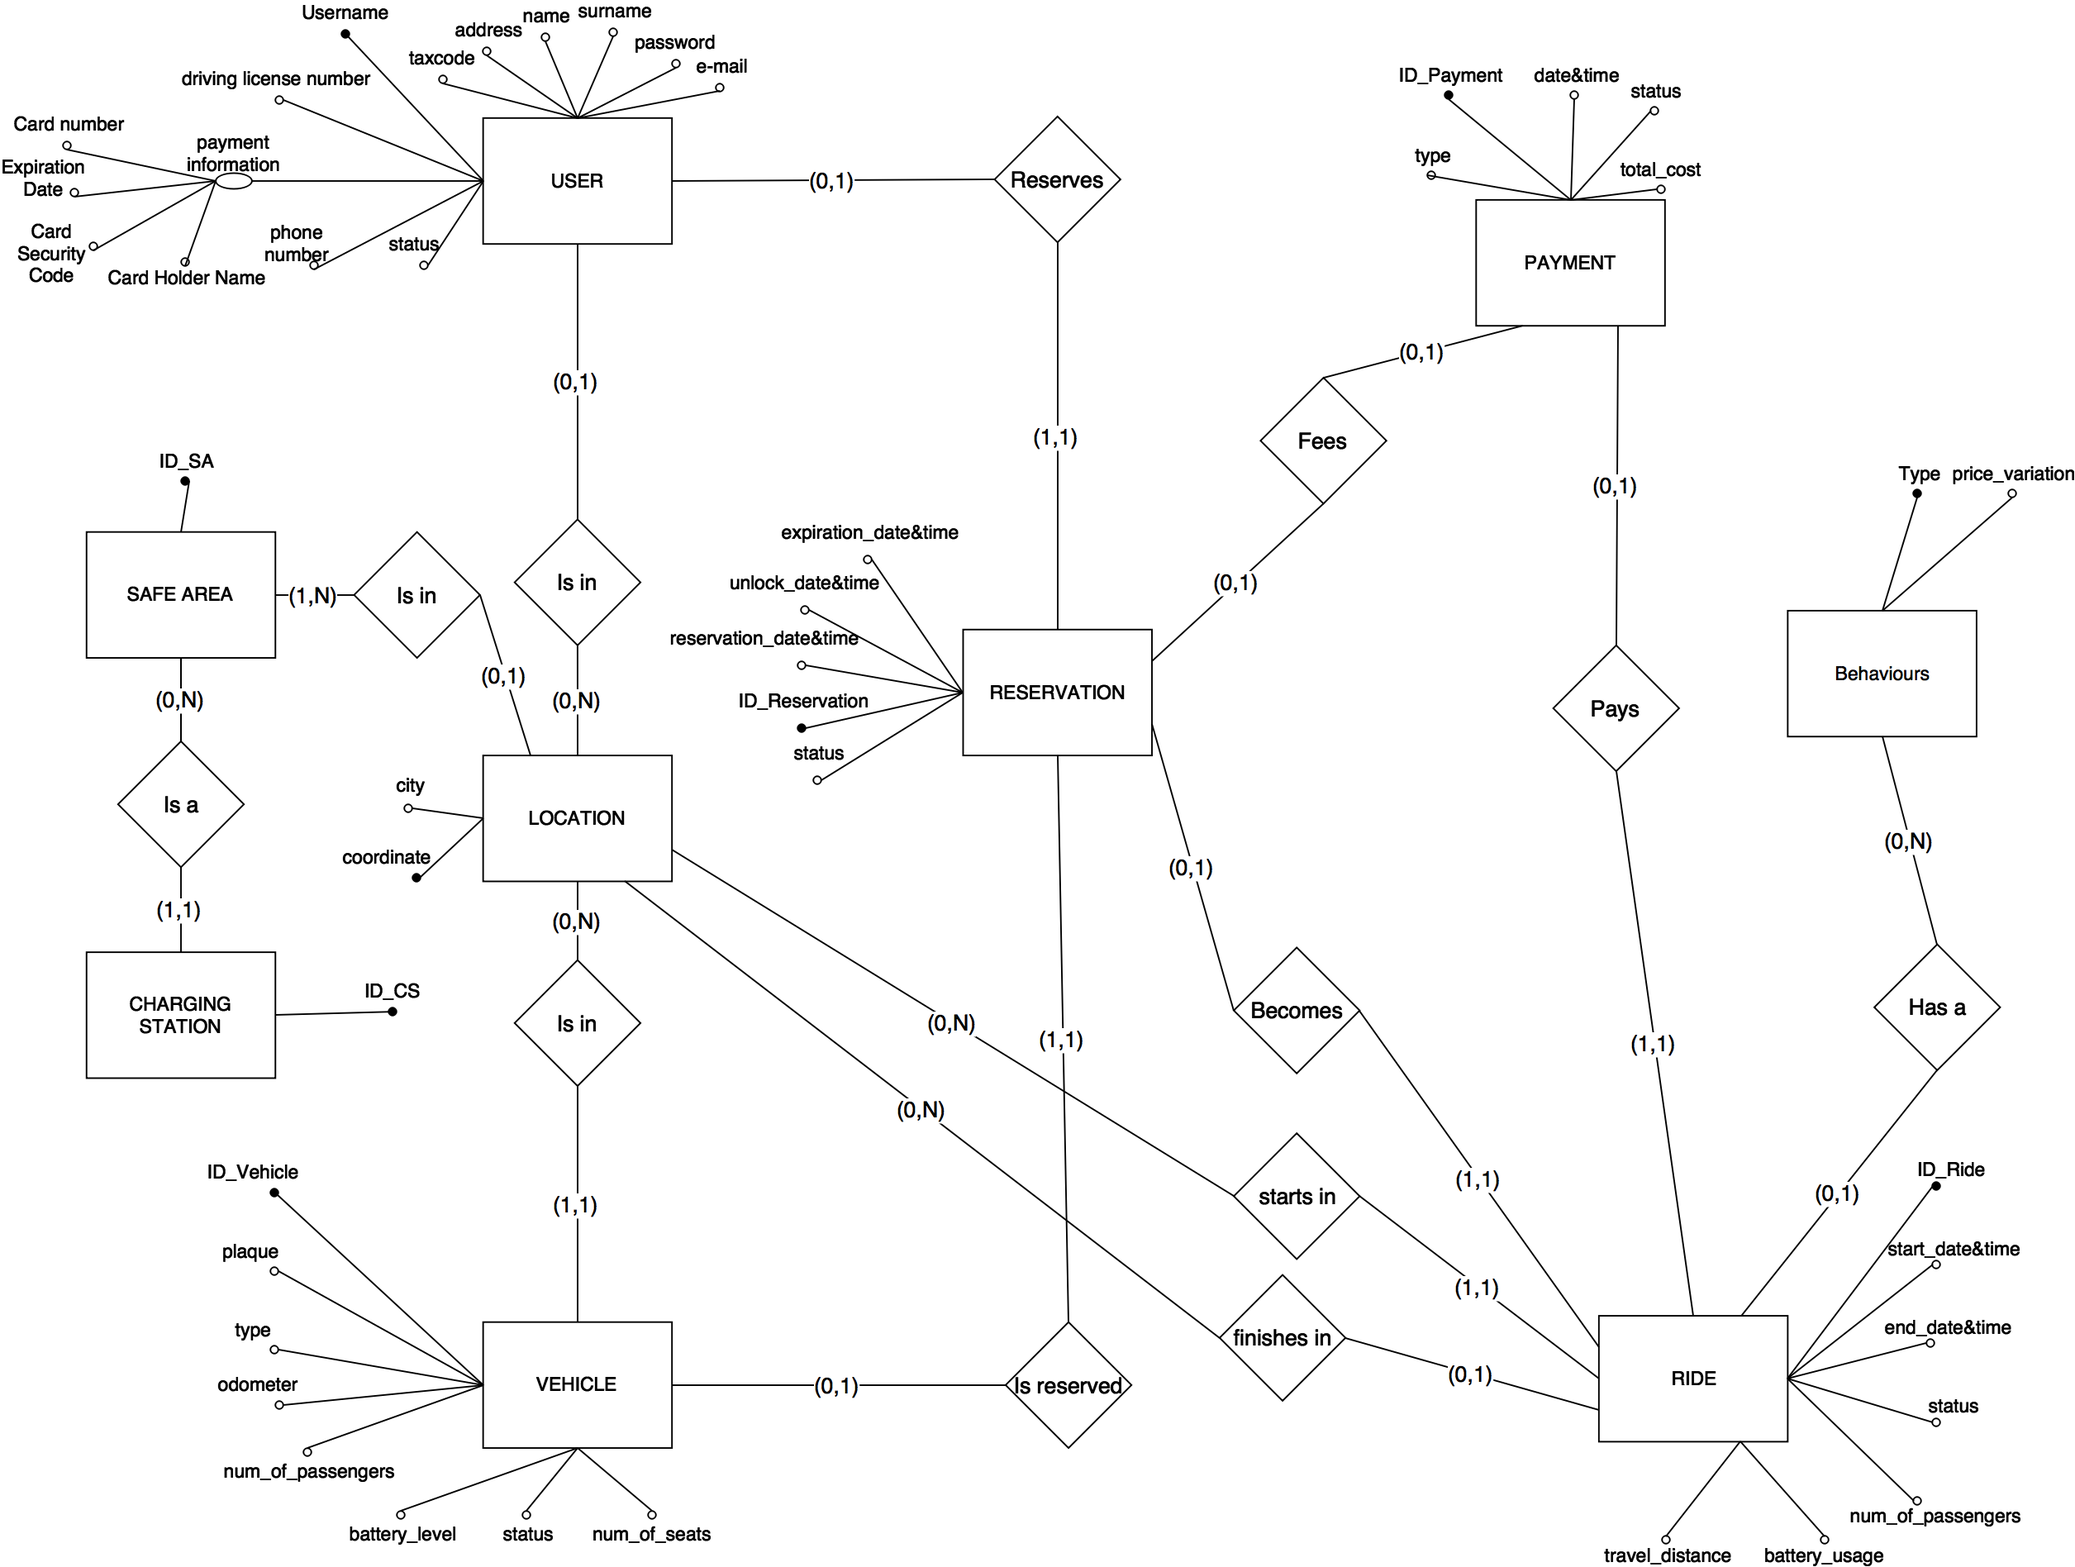
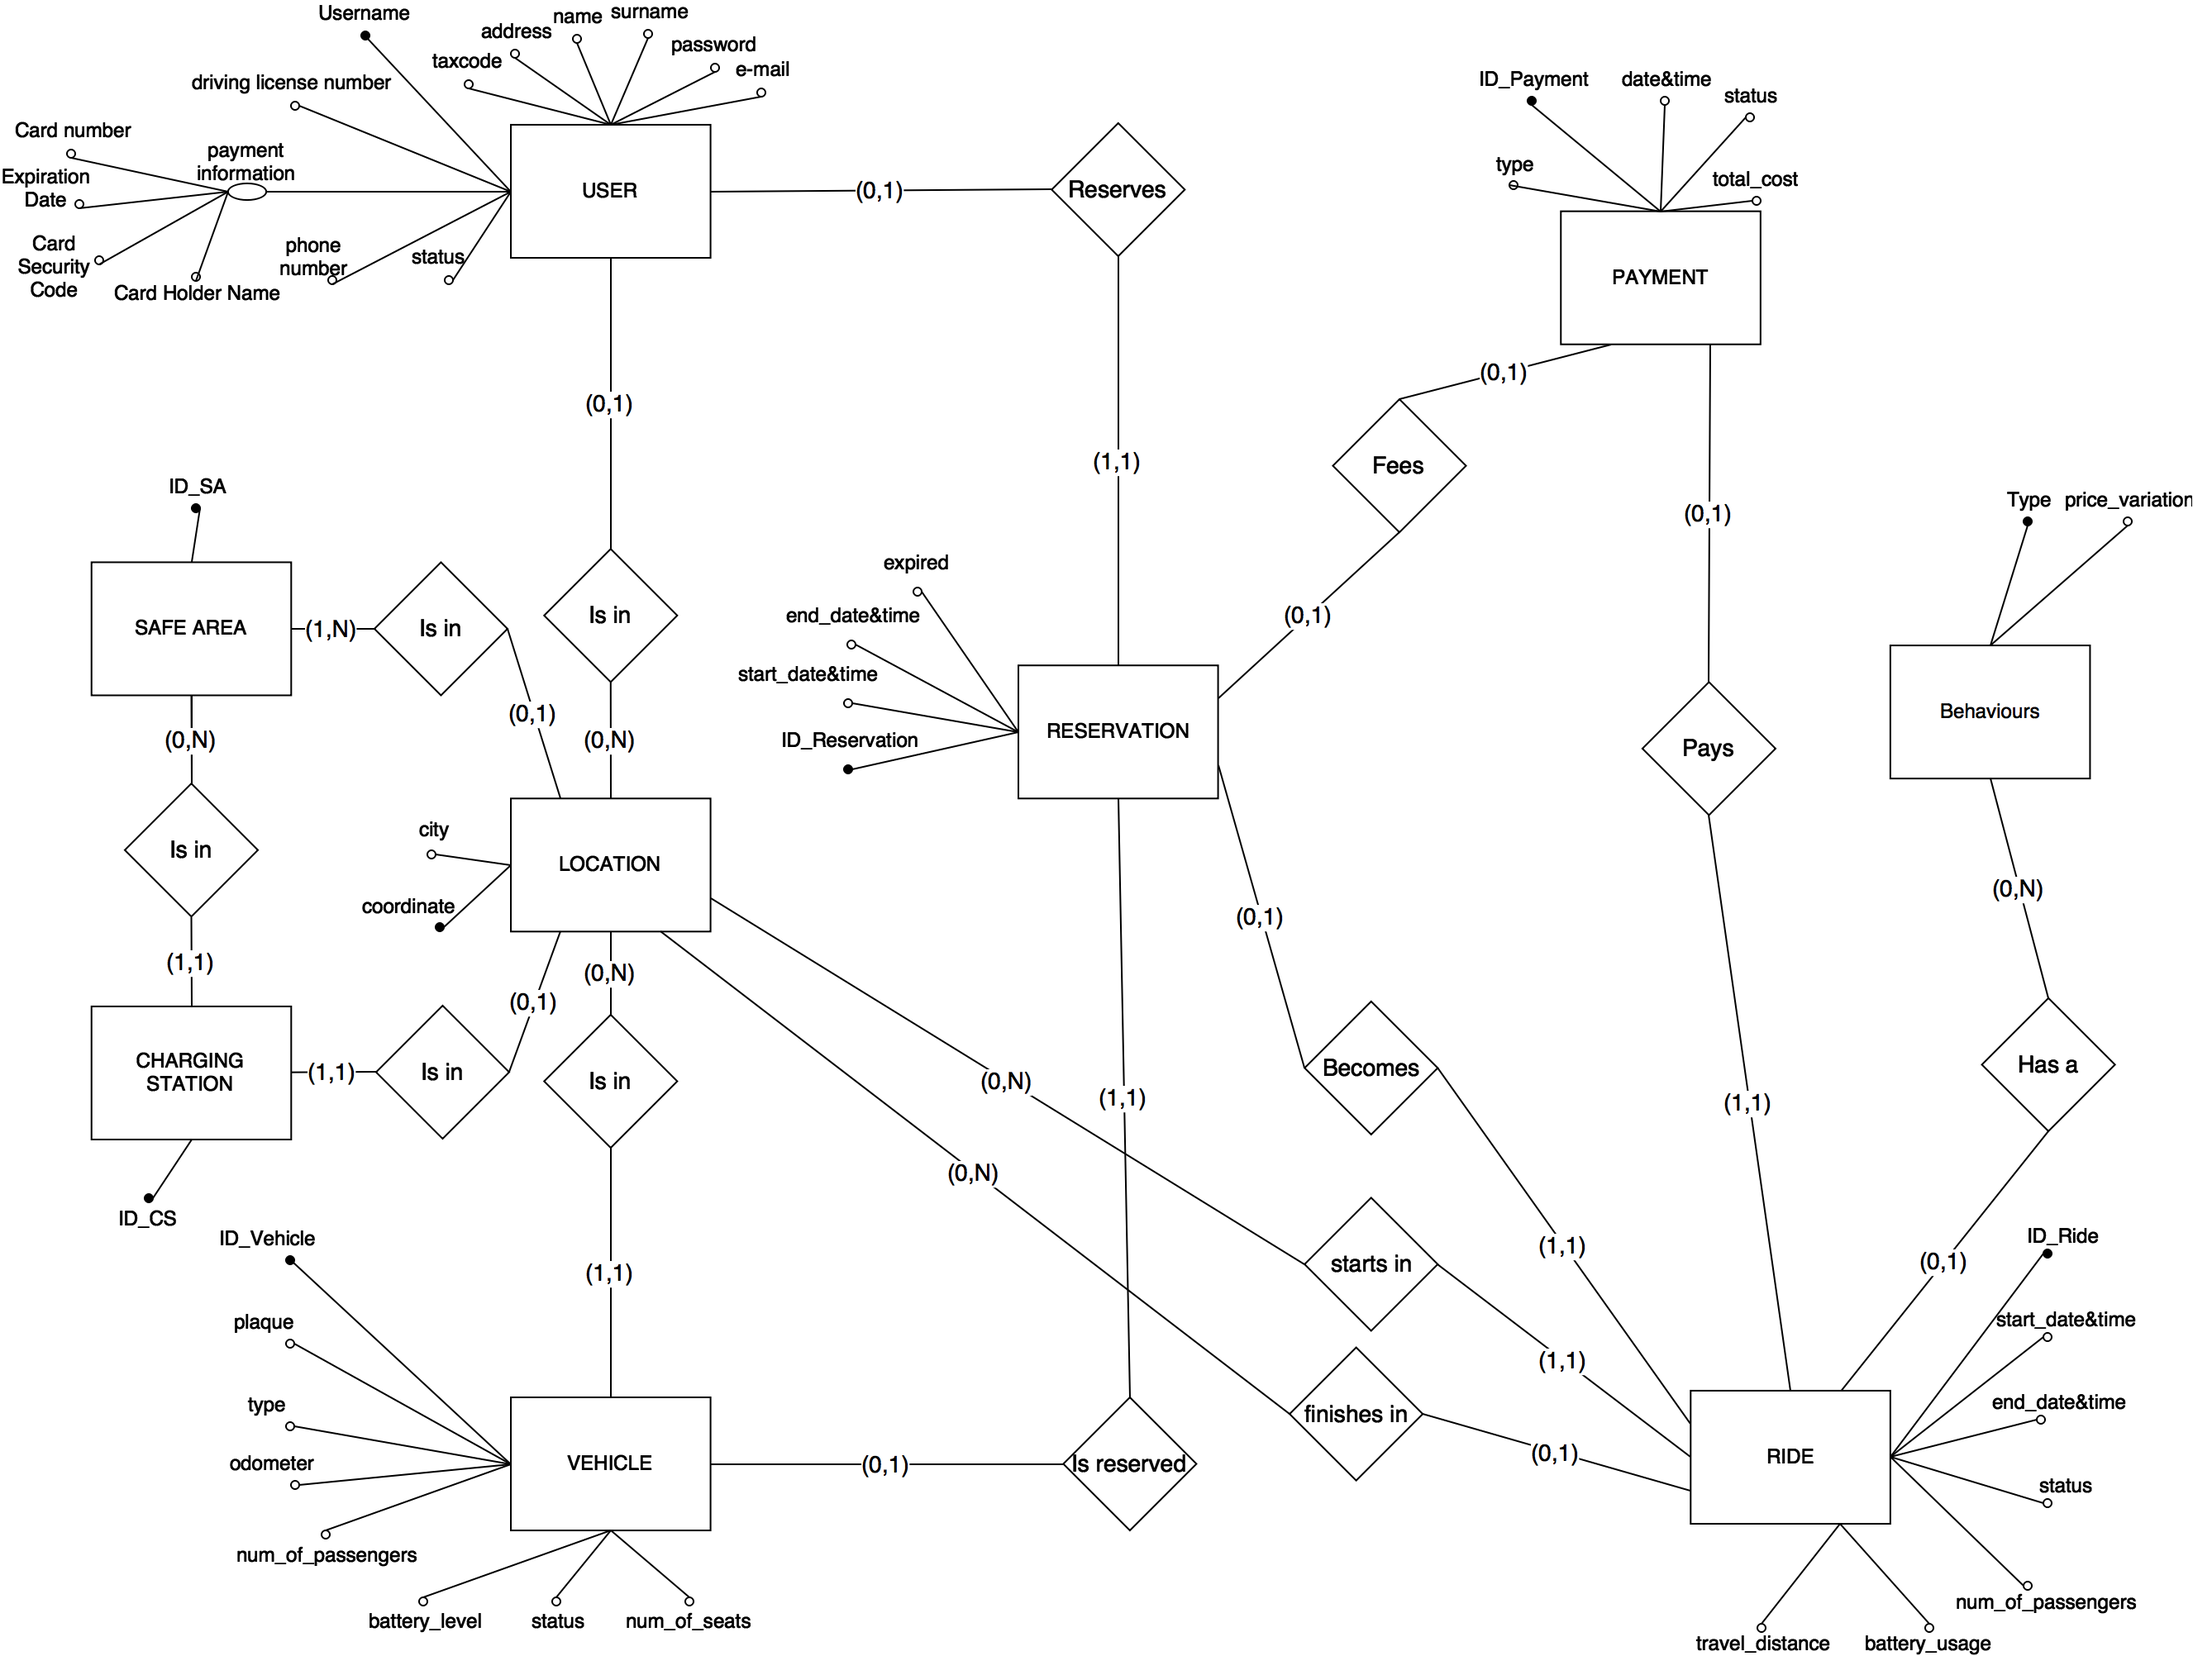
Update ER Diagram

diff --git a/DD/contents/Architectural_design/component_view.tex b/DD/contents/Architectural_design/component_view.tex
@@ -48,8 +48,8 @@ User,Vehicle, Location, Safe Area, Charging Station, Reservation, Ride, Behaviou
 	\item{Vehicle (\underline{ID\_Vehicle}, \textit{Location}, plaque, type, odometer, battery\_level, status, num\_of\_seats, num\_of\_passengers) }
 	\item{Location (\underline{coordinate}, city)}	
 	\item{Safa Area (\underline{ID\_SA}, \textit{Location})} %type A=Safe Area, B=Charging Station, C=both, Add an ID!!!
-	\item{Charging Station(\underline{ID\_CS}, \textit{Location})}
-	\item{Reservation (\underline{ID\_reservation}, \textit{ID\_User}, \textit{ID\_Vehicle}, reservation\_date\&time, unlock\_date\&time, expiration\_date\&time, status)}
+	\item{Charging Station(\underline{ID\_CS}, \textit{Location},\textit{ID\_SA})}
+	\item{Reservation (\underline{ID\_reservation}, \textit{ID\_User}, \textit{ID\_Vehicle}, start\_date\&time, end\_date\&time, expired)}
 	\item{Ride (\underline{ID\_Ride}, \textit{ID\_User}, \textit{ID\_Vehicle}, \textit{ID\_Reservation}, \textit{ID\_Payment},\textit{Start\_Location},\textit{Finish\_Location}, start\_date\&time, end\_date\&time, status, num\_of\_passengers, travel\_distance, battery\_usage)}
 	\item{Behaviours(\underline{Type}, \textit{ID\_Ride}, price\_variation)}
 	\item{Payment (\underline{ID\_Payment}, \textit{ID\_User}, \textit{ID\_Reservation}, \textit{ID\_Ride}, date\&time, total\_cost, status, type)}
